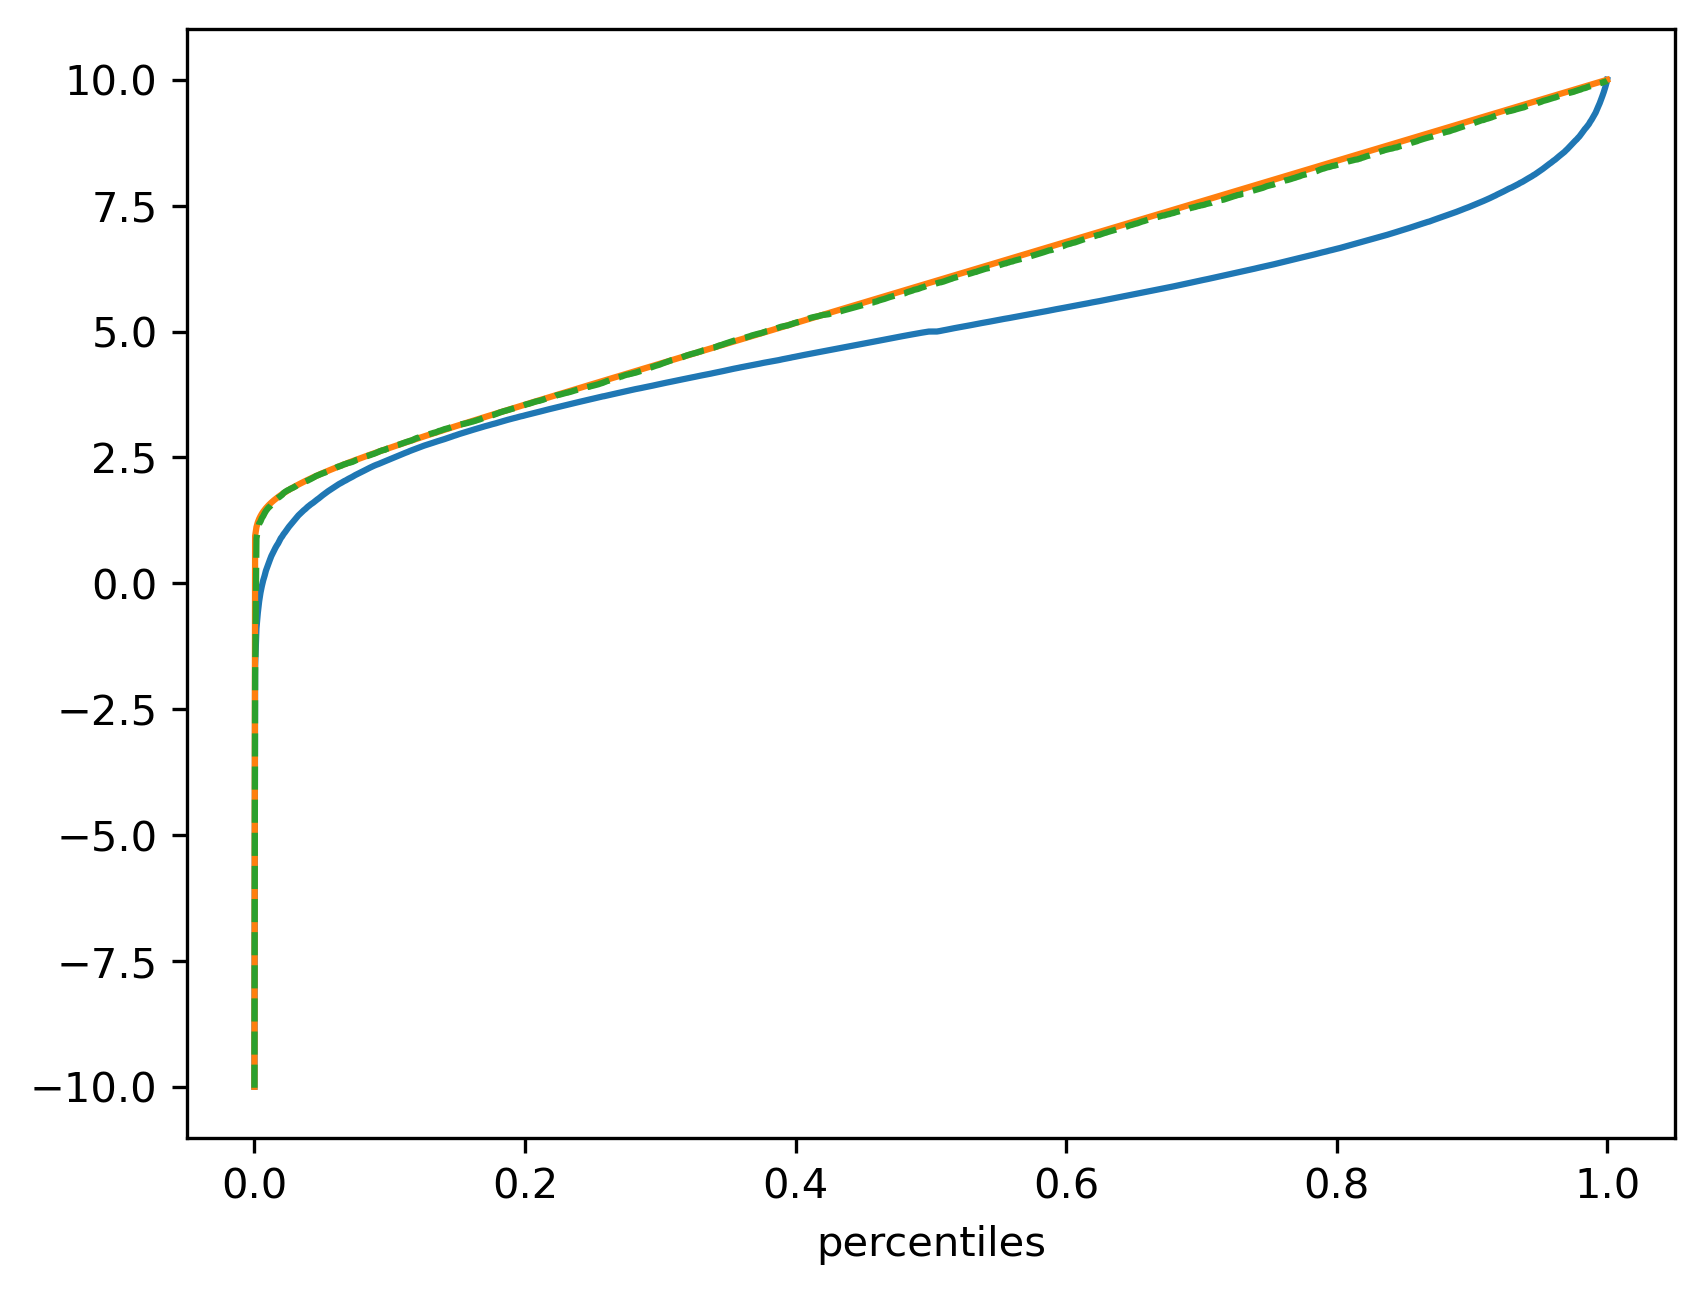
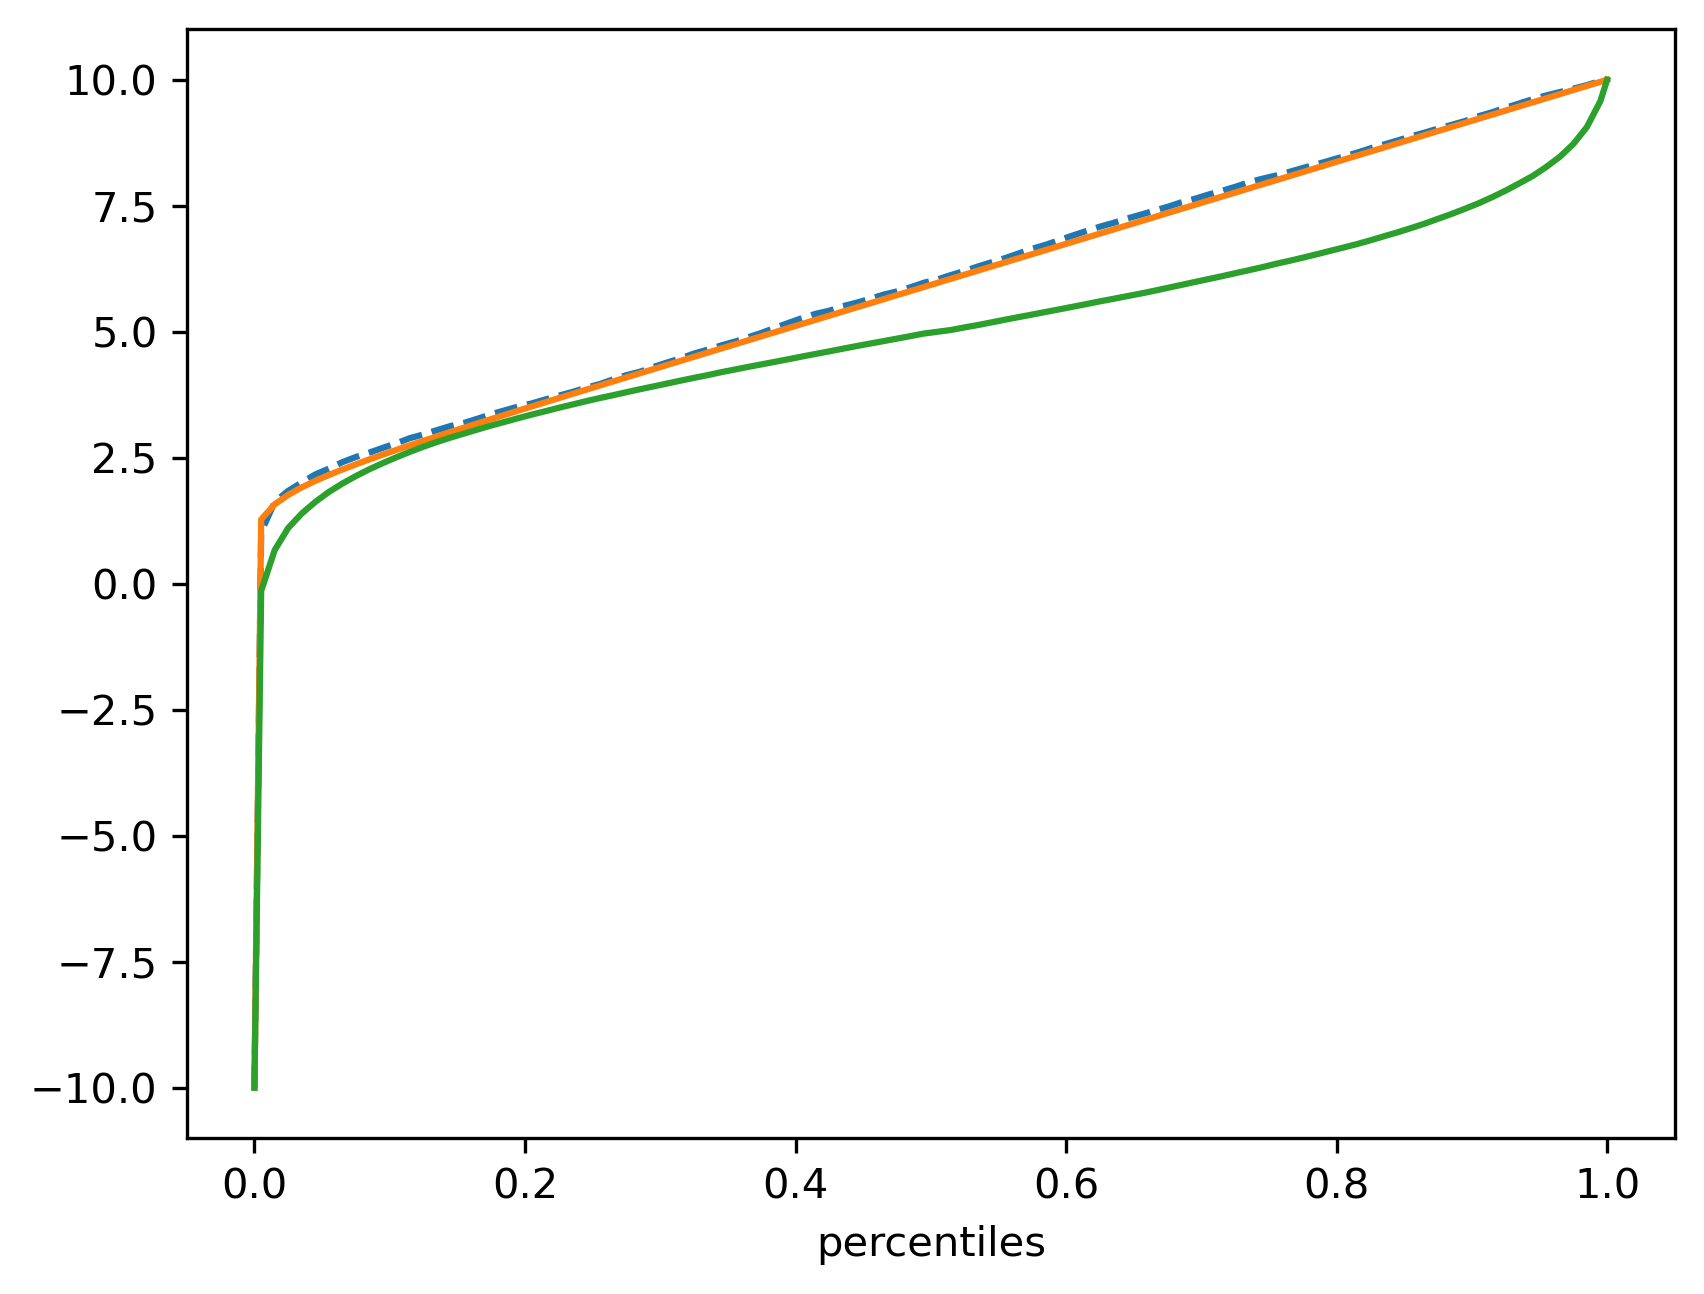
Correct color scheme for chemotaxis.

diff --git a/ICDFChemotaxis.py b/ICDFChemotaxis.py
@@ -127,7 +127,7 @@ def calculateSteadyState():
 
     # Initial density: use a truncated Gaussian for now
     N = 10**5
-    n_points = 1000
+    n_points = 100
     percentile_grid = (np.arange(n_points) + 0.5) / n_points
     mean = 5.0
     stdev = 2.0
@@ -149,8 +149,8 @@ def calculateSteadyState():
     print(samples_from_icdf)
 
     # Plot the initial and final density, as well as the true steady-state distribution
-    dx = 2.0 * L / 1000
-    grid = np.linspace(-L, L, 1001)
+    dx = 2.0 * L / n_points
+    grid = np.linspace(-L, L, n_points+1)
     analytic_dist = np.exp( (S(grid) + S(grid)**3 / 6.0) / D)
     Z_dist = np.trapz(analytic_dist, grid)
     analytic_dist /= Z_dist
@@ -164,12 +164,12 @@ def calculateSteadyState():
     icdf0 = np.concatenate(([-L], icdf0, [L]))
     icdf_inf = np.concatenate(([-L], icdf_inf, [L]))
     percentile_grid = np.concatenate(([0.0], percentile_grid, [1.0]))
-    plt.plot(percentile_grid, icdf0, label='Initial ICDF')
-    plt.plot(percentile_grid, analytic_icdf, label='Analytic ICDF')
     plt.plot(percentile_grid, icdf_inf, '--', label="Newton-Krylov ICDF")
+    plt.plot(percentile_grid, analytic_icdf, label='Analytic ICDF')
+    plt.plot(percentile_grid, icdf0, label='Initial ICDF')
     plt.xlabel('percentiles')
     plt.savefig("./Paper/ChemotaxisICDF.png", dpi=300, transparent=True, bbox_inches='tight')
-    plt.legend()
+#    plt.legend()
 
     # Also plot the particles
     plt.figure()
